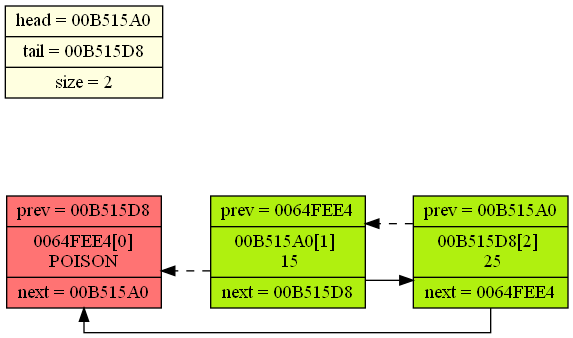
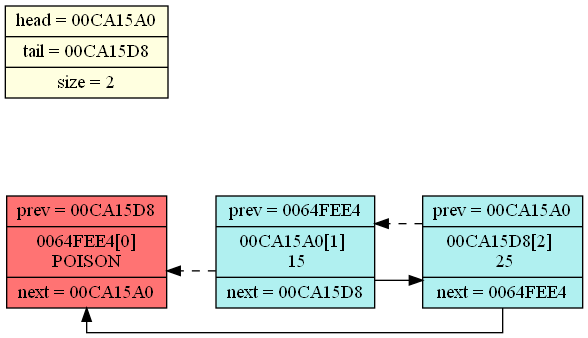
Change gpaph color

diff --git a/PtrList/list_dump.html b/PtrList/list_dump.html
@@ -2,7 +2,7 @@
 
 <img src = "img/graph0.png", style = " max-width: 95vw "><hr><pre><font size = 4>PushBack( 25 )</font>
 
-<img src = "img/graph1.png", style = " max-width: 95vw "><hr><pre><font size = 4>ListRemove( 00B515D8 )</font>
+<img src = "img/graph1.png", style = " max-width: 95vw "><hr><pre><font size = 4>ListRemove( 00CA15D8 )</font>
 
 <img src = "img/graph2.png", style = " max-width: 95vw "><hr><pre><font size = 4>PushBack( 50 )</font>
 

diff --git a/PtrList/src/list_ptr.cpp b/PtrList/src/list_ptr.cpp
@@ -74,7 +74,7 @@ int GraphVizList( List* list, FILE* tempFile )
     ListNode* curNode = ListHead( list );
     for( int i = 1; i <= list->size; i++ )
     {   
-        fprintf( tempFile, "node%p[ shape = record, style = \"filled\", fillcolor = \"#B0F0F\", " 
+        fprintf( tempFile, "node%p[ shape = record, style = \"filled\", fillcolor = \"#B0F0F0\", " 
                            "label = \"<p> prev = %p | <d> %p[%d] \\n %d | <n> next = %p\" ];\n", 
                             curNode, curNode->prev, curNode, i, curNode->elem, curNode->next );                             
 
